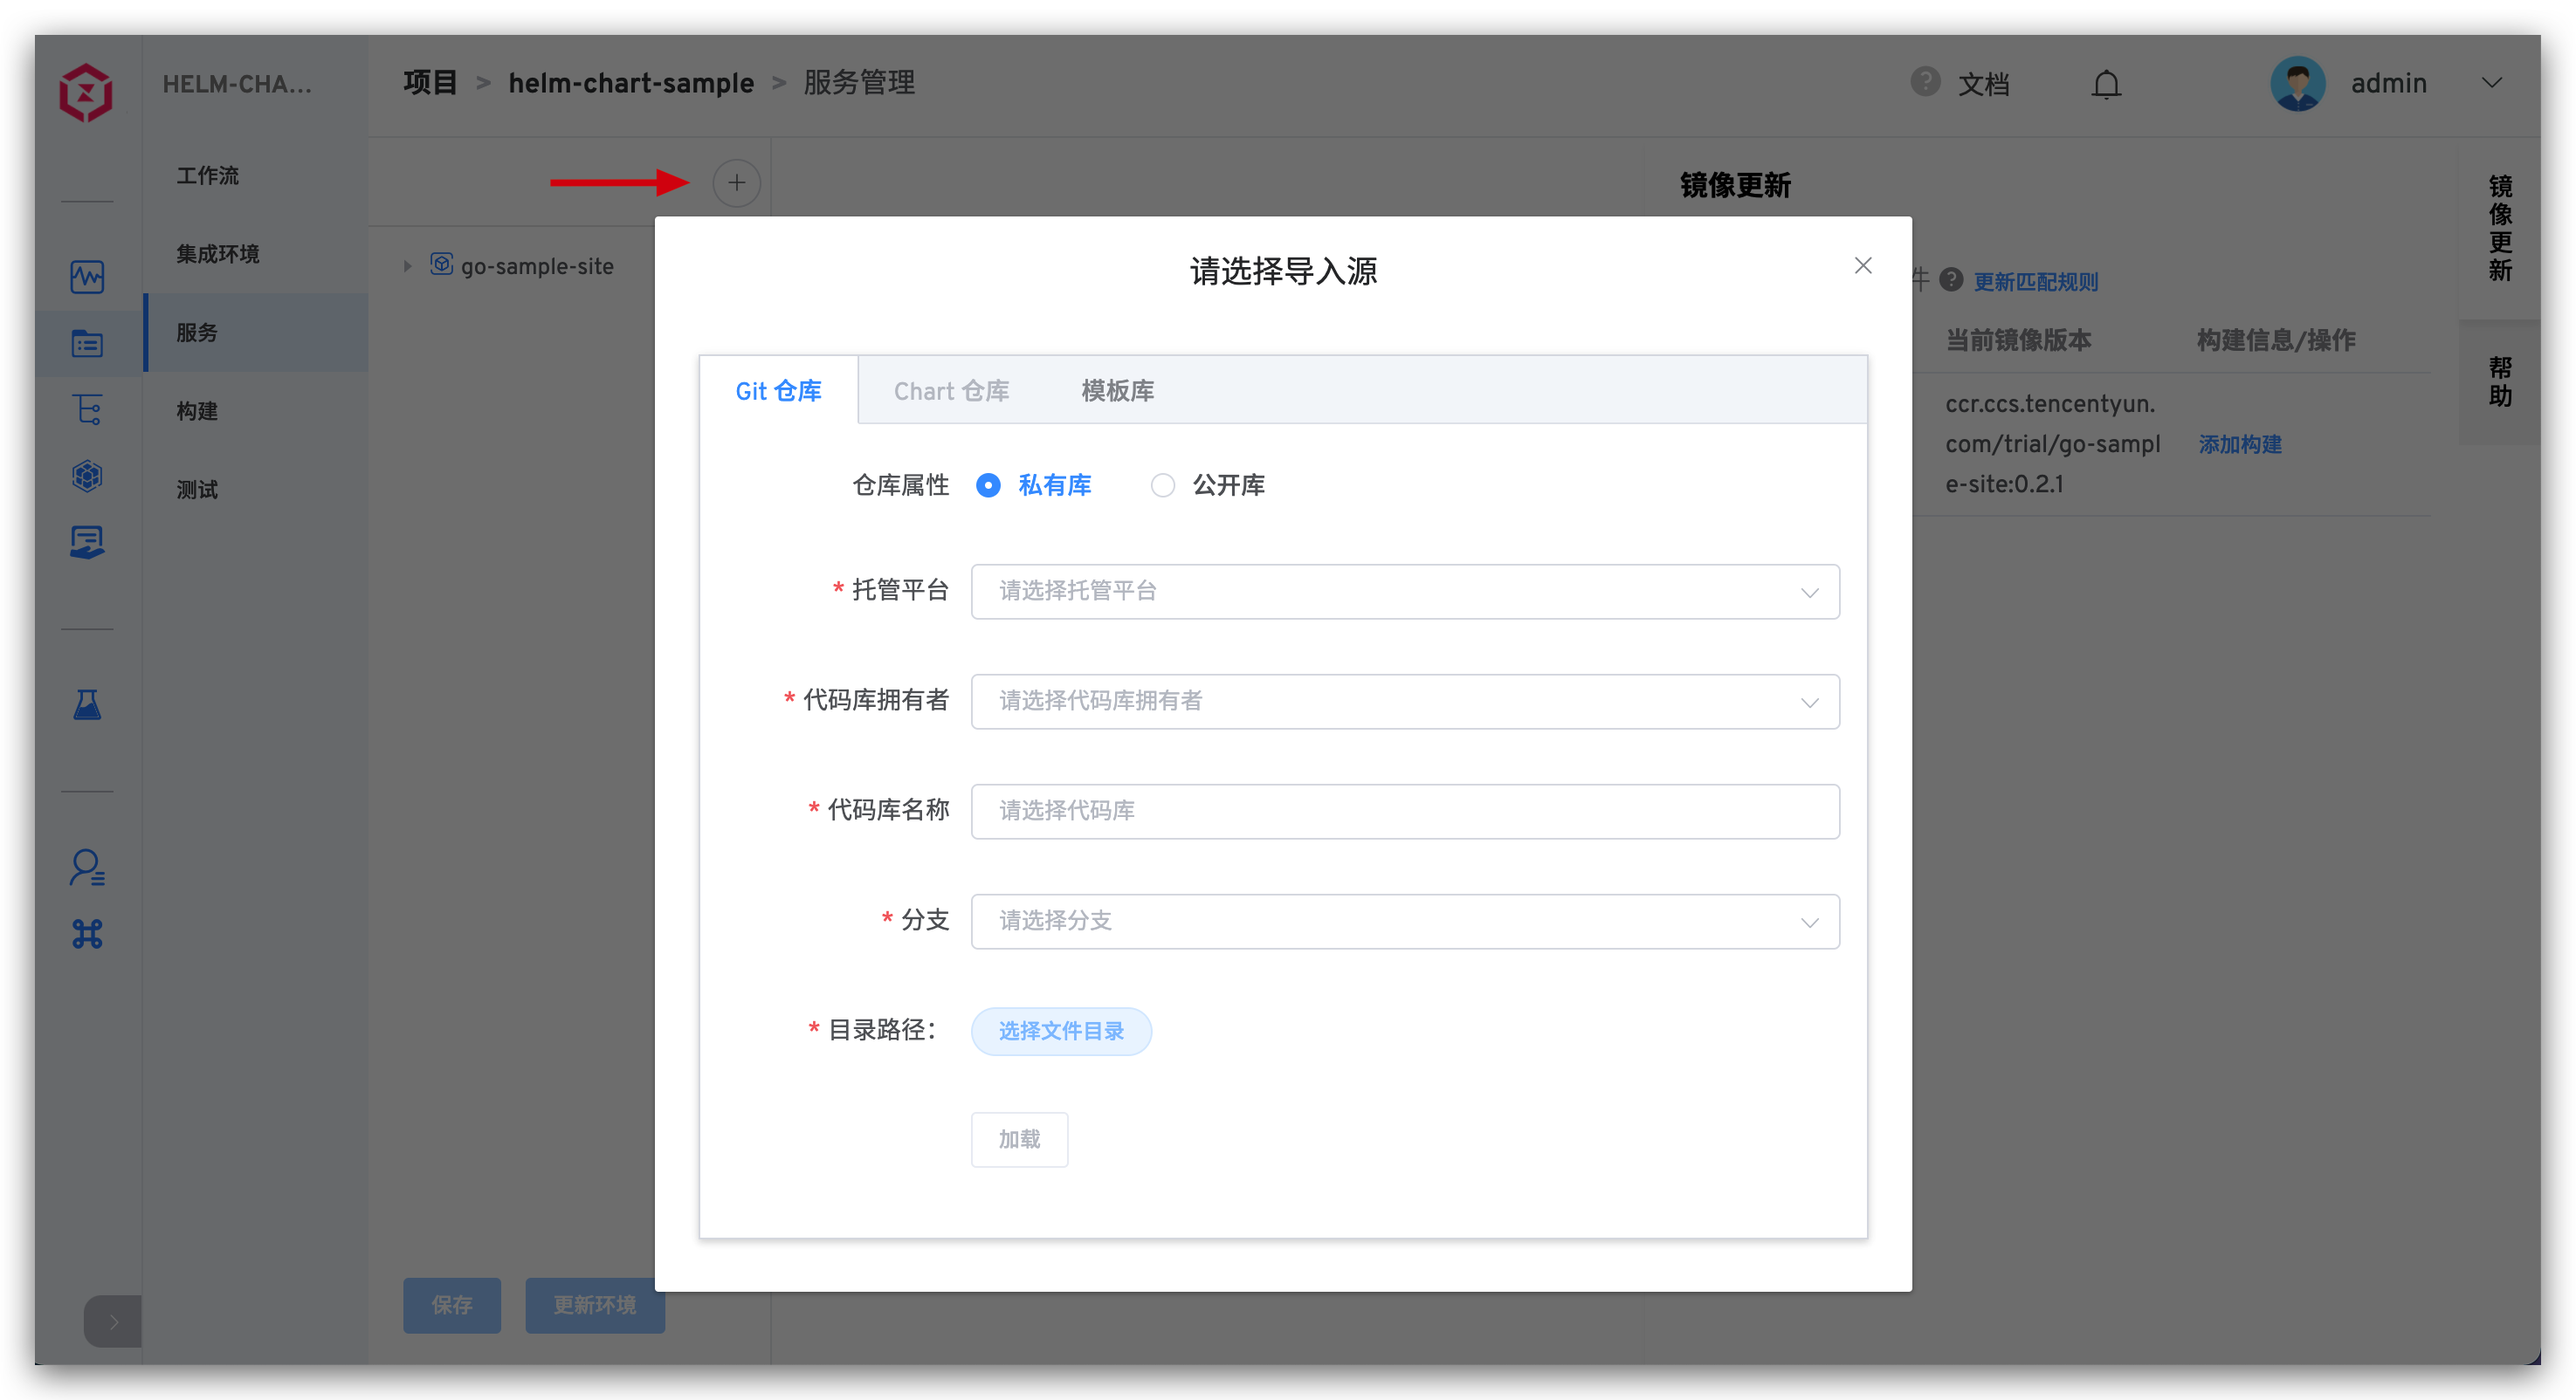
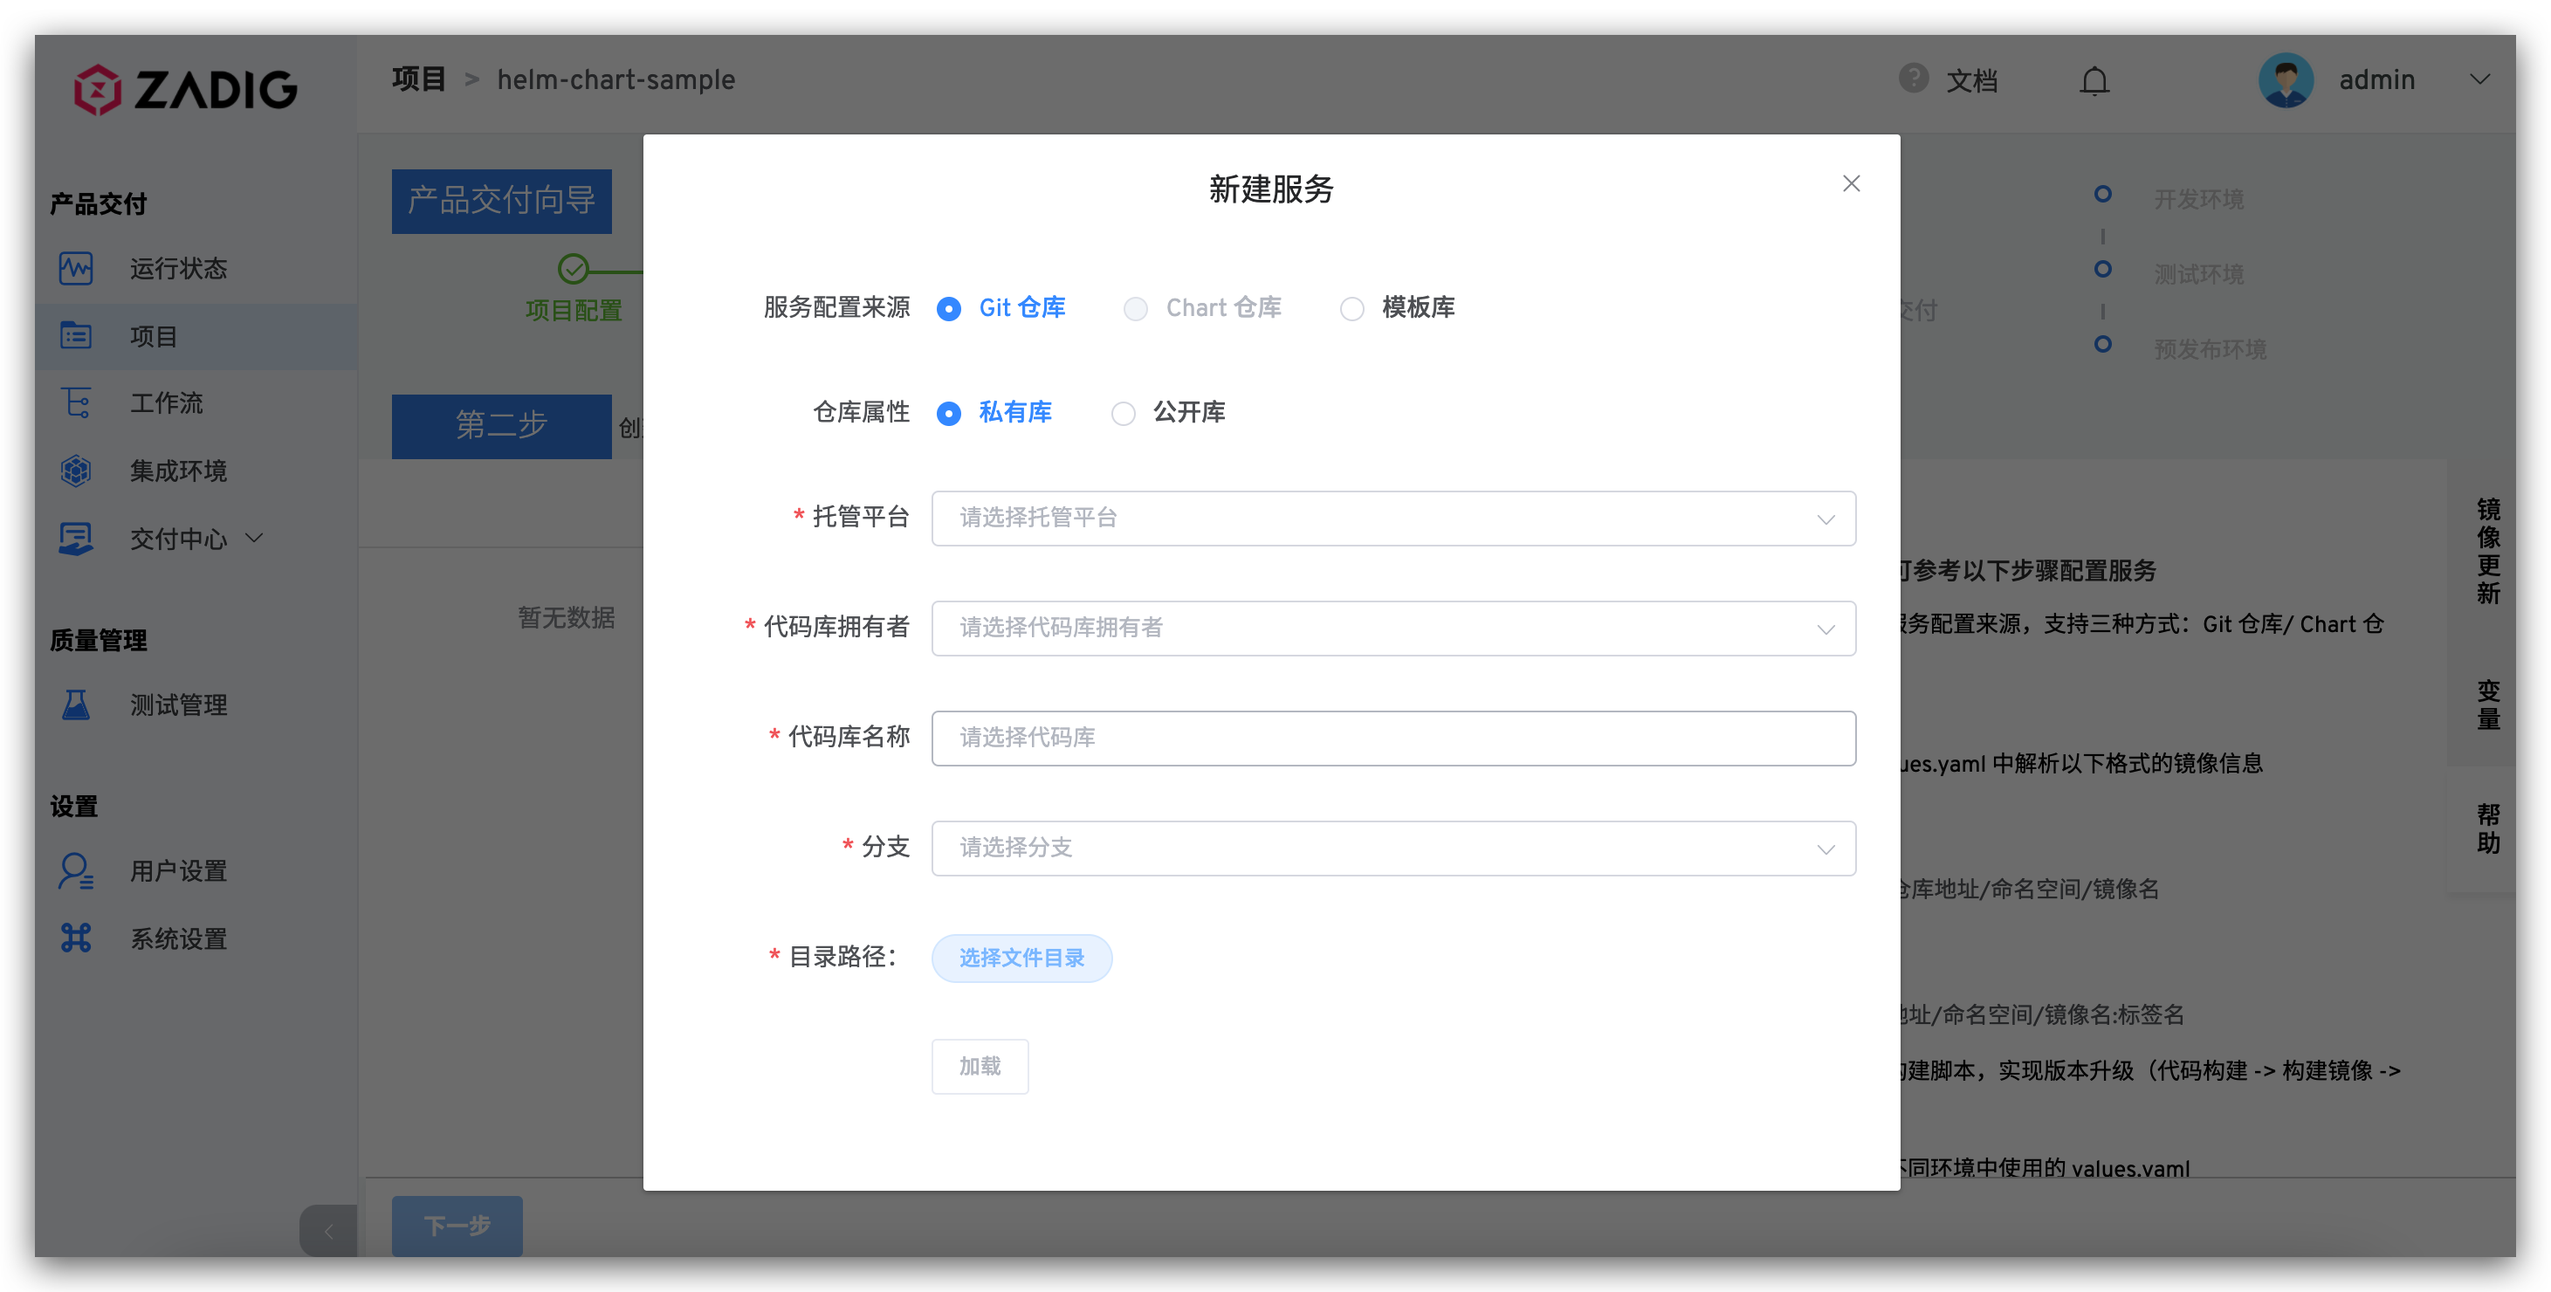
update helm chart doc

diff --git a/zh_cn/04.项目配置/00.service.md b/zh_cn/04.项目配置/00.service.md
@@ -456,28 +456,45 @@ spec:
 
 ## Helm Chart 服务
 
-> [Helm](https://helm.sh/) 是 Kubernetes 应用的包管理工具，用来管理 Chart - 封装 Kubernetes 应用程序的一些列 YAML 文件。
+> [Helm](https://helm.sh/) 是 Kubernetes 应用的包管理工具， Helm Chart 定义、安装和升级复杂的 Kubernetes 应用。
 
 ### 新增 Helm Chart
 
 项目中点击服务部分，进入服务管理页面。
 ![新增 Helm Chart 服务](./_images/helm_project_overview.png)
 
-Zadig 系统支持 3 种方式创建 Helm Chart 来管理 Kubernetes 服务：
+Zadig 系统新建服务，服务配置支持三种来源：Git 仓库、Chart 仓库、模板库。
 
-- `指定 Git 仓库导入`：Helm Chart 相关配置托管于指定的 Git 仓库中，将配置从 Git 仓库中导入至 Zadig 系统内。
-- `模板库导入`：Helm Chart 相关配置托管于模板库中，将配置从模板库导入至 Zadig 系统内。
-- `Chart 仓库导入`：[建设中]Helm Chart 相关配置托管于 Chart 仓库中，将配置从 Chart 仓库中导入至 Zadig 系统内。
+- `Git 仓库`：Helm Chart 相关配置托管于指定的 Git 仓库中，将配置从 Git 仓库中导入至 Zadig 系统内。
+- `Chart 仓库`：[建设中]Helm Chart 相关配置托管于 Chart 仓库中，将配置从 Chart 仓库中导入至 Zadig 系统内。
+- `模板库`：Helm Chart 相关配置托管于 Zadig 模板库中，服务可以基于 Zadig 模板库创建。
 
-#### Git 仓库导入
+
+#### Git 仓库
 - 点击 `+` 新建服务，填写代码仓库相关信息及 Helm Chart 配置文件目录路径，加载服务。
-> 前提: 需要先集成代码源，参考 [GitLab 集成](/settings/codehost/gitlab)/[GitHub 集成](/settings/codehost/github)/[Gerrit 集成](/settings/codehost/gerrit)/[CodeHub 集成](/settings/codehost/codehub)
+> 前提: 需要先集成代码源，参考 [GitLab 集成](/settings/codehost/gitlab)/[GitHub 集成](/settings/codehost/github)
 
 ![从 Git 仓库导入 Helm Chart](./_images/helm_chart_from_git_repo.png)
 
-
-
-#### 模板库导入
+<!-- #### 模板库
+> 功能建设中，敬请期待……
 
 #### Chart 仓库导入
-> 功能建设中，敬请期待……
+> 功能建设中，敬请期待…… -->
+
+### 更新服务
+
+- 在`服务`模块，选择服务，点击“更新”按钮，重新从 Git 仓库导入服务。
+
+![Git 仓库更新服务](./_images/helm_chart_git_update_1.png)
+
+- 点击`更新环境`按钮，将服务添加到相应环境中。
+
+![Git 仓库更新服务](./_images/helm_chart_git_update_2.png)
+
+### 删除服务
+
+- 从`服务`模块中将服务配置删除。
+- 点击 `更新环境`按钮，将删除的服务从相应环境中移除。
+
+![Git 仓库删除服务](./_images/helm_chart_git_delete.png)
